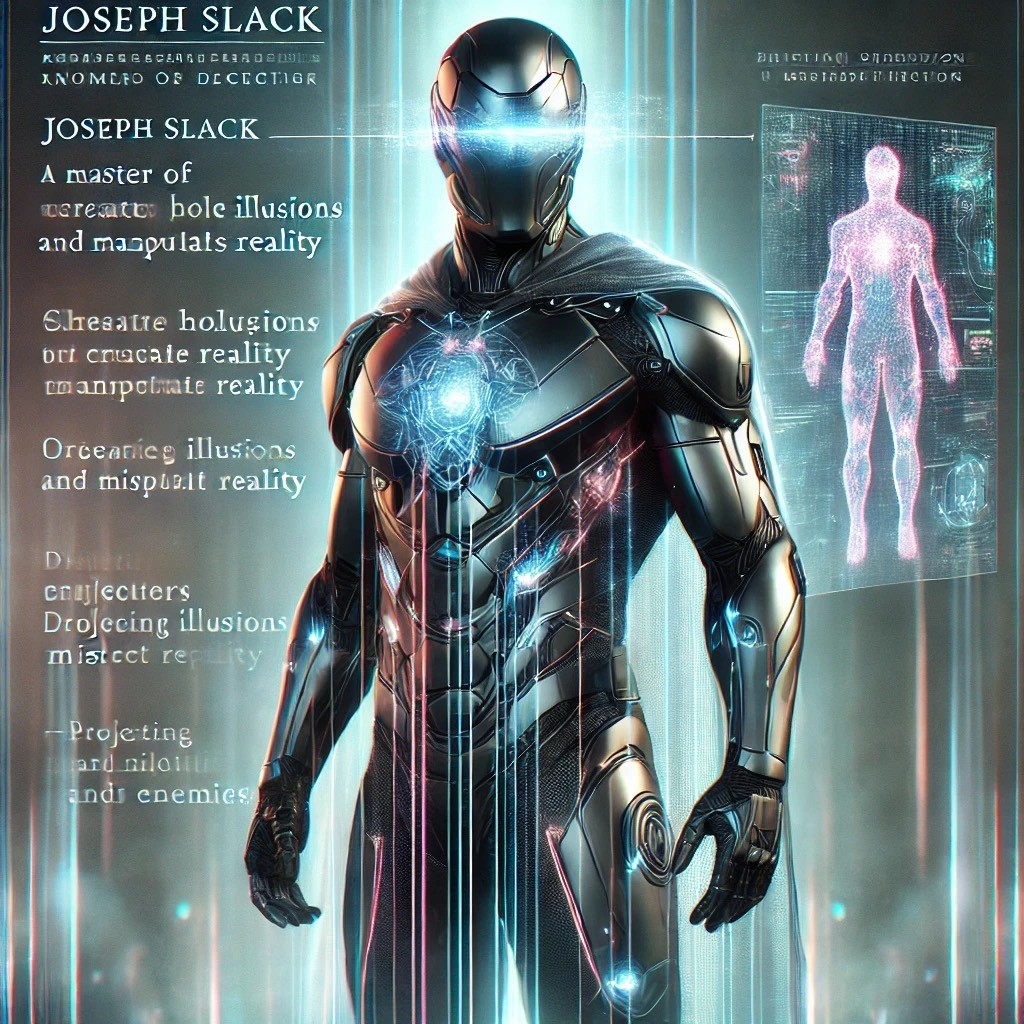
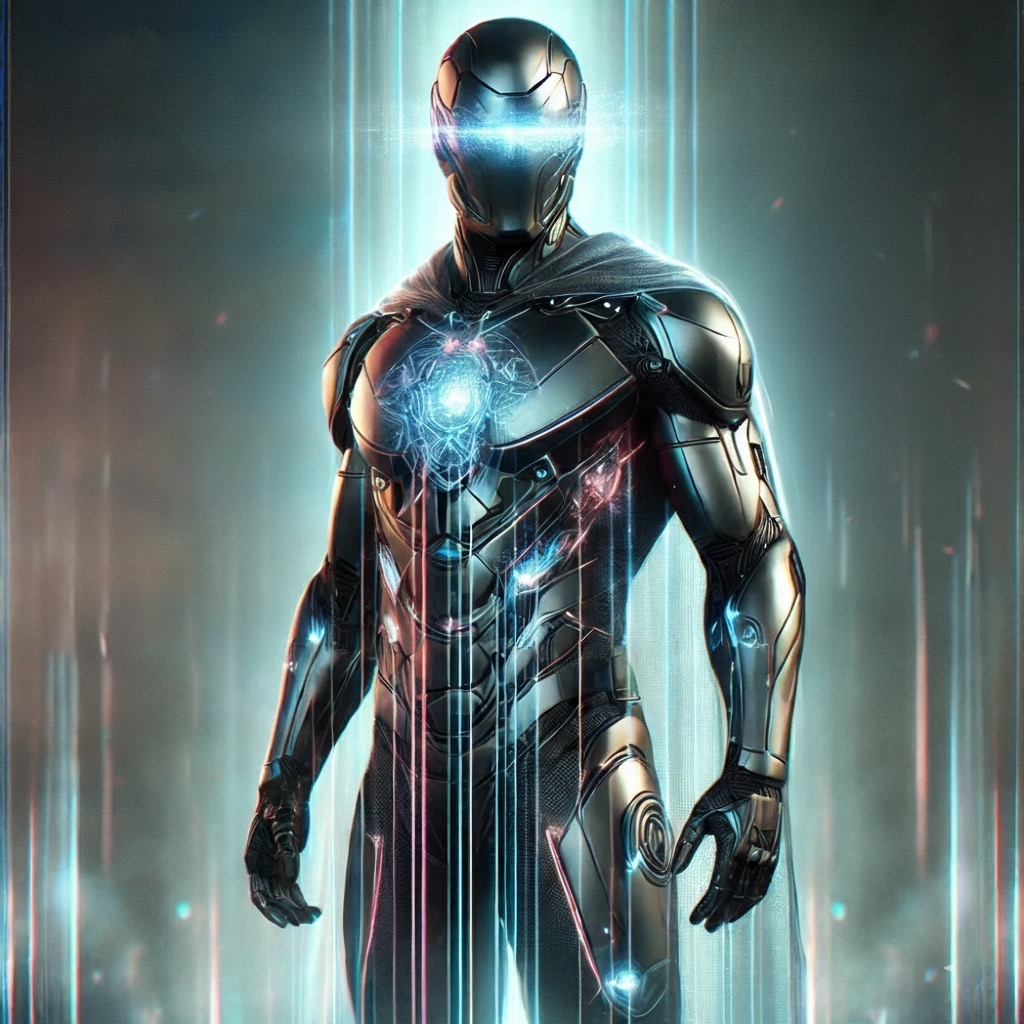
fixed

diff --git a/screens/LoginScreen.js b/screens/LoginScreen.js
@@ -58,9 +58,14 @@ const LoginScreen = () => {
   const authCtx = useContext(AuthContext);
 
   const [avatar, setAvatar] = useState({ file: null, url: '' });
-  const [email, setEmail] = useState('');
-  const [password, setPassword] = useState('');
+
+  // 🔐 SEPARATE state for login vs signup so they don't overwrite each other
+  const [loginEmail, setLoginEmail] = useState('');
+  const [loginPassword, setLoginPassword] = useState('');
+  const [signupEmail, setSignupEmail] = useState('');
+  const [signupPassword, setSignupPassword] = useState('');
   const [username, setUsername] = useState('');
+
   const [loading, setLoading] = useState(false);
 
   // Animated background
@@ -105,11 +110,13 @@ const LoginScreen = () => {
     setLoading(true);
     try {
       const imgUrl = avatar.file ? await upload(avatar.file) : './avatar.png';
-      const res = await createUserWithEmailAndPassword(auth, email, password);
+
+      // use signupEmail / signupPassword ONLY for registration
+      const res = await createUserWithEmailAndPassword(auth, signupEmail, signupPassword);
 
       await setDoc(doc(db, 'users', res.user.uid), {
         username,
-        email,
+        email: signupEmail,
         avatar: imgUrl,
         id: res.user.uid,
         blocked: [],
@@ -132,7 +139,8 @@ const LoginScreen = () => {
   const handleLogin = async () => {
     setLoading(true);
     try {
-      const res = await signInWithEmailAndPassword(auth, email, password);
+      // use loginEmail / loginPassword ONLY for sign in
+      const res = await signInWithEmailAndPassword(auth, loginEmail, loginPassword);
       const token = await res.user.getIdToken();
       authCtx.authenticate(token);
 
@@ -187,23 +195,23 @@ const LoginScreen = () => {
               placeholderTextColor="rgba(226,232,240,0.6)"
               autoCapitalize="none"
               keyboardType="email-address"
-              onChangeText={setEmail}
-              value={email}
+              onChangeText={setLoginEmail}
+              value={loginEmail}
             />
             <TextInput
               style={styles.input}
               placeholder="Password"
               placeholderTextColor="rgba(226,232,240,0.6)"
               secureTextEntry
-              onChangeText={setPassword}
-              value={password}
+              onChangeText={setLoginPassword}
+              value={loginPassword}
             />
 
             {renderGlassButton('Sign In', handleLogin, 'primary')}
           </View>
 
           {/* Divider */}
-          <View style={styles.verticalDivider} />
+          {/* <View style={styles.verticalDivider} /> */}
 
           {/* RIGHT: Sign Up */}
           <View style={[styles.column, isWide && styles.columnSplit]}>
@@ -231,16 +239,16 @@ const LoginScreen = () => {
               placeholderTextColor="rgba(226,232,240,0.6)"
               autoCapitalize="none"
               keyboardType="email-address"
-              onChangeText={setEmail}
-              value={email}
+              onChangeText={setSignupEmail}
+              value={signupEmail}
             />
             <TextInput
               style={styles.input}
               placeholder="Password"
               placeholderTextColor="rgba(226,232,240,0.6)"
               secureTextEntry
-              onChangeText={setPassword}
-              value={password}
+              onChangeText={setSignupPassword}
+              value={signupPassword}
             />
 
             {renderGlassButton('Sign Up', handleRegister, 'secondary')}
@@ -267,7 +275,6 @@ const styles = StyleSheet.create({
     width: SCREEN_WIDTH,
     height: SCREEN_HEIGHT,
   },
-  // dark tinted overlay over bg
   screenOverlay: {
     ...StyleSheet.absoluteFillObject,
     backgroundColor: 'rgba(15,23,42,0.75)',
@@ -279,7 +286,6 @@ const styles = StyleSheet.create({
     paddingHorizontal: 16,
   },
 
-  // Main glass card
   card: {
     width: '95%',
     maxWidth: 900,
@@ -301,10 +307,10 @@ const styles = StyleSheet.create({
     paddingVertical: 24,
   },
 
-//   column: {
-//     flex: 1,
-//     alignItems: 'stretch',
-//   },
+  column: {
+    // flex: 1,
+    alignItems: 'stretch',
+  },
   columnSplit: {
     paddingHorizontal: 8,
   },

diff --git a/screens/Cobros/CobrosMembers.js b/screens/Cobros/CobrosMembers.js
@@ -49,7 +49,7 @@ export const cobrosMembers = [
     codename: 'Caster',
     screen: '',
     images: [
-      { uri: require('../../assets/Armor/JosephS_cleanup.jpg'), name: '', clickable: true },
+      { uri: require('../../assets/Armor/JosephS.jpg'), name: '', clickable: true },
       // { uri: require('../../assets/Armor/PlaceHolder.jpg'), name: '', clickable: true },
     ],
   },
